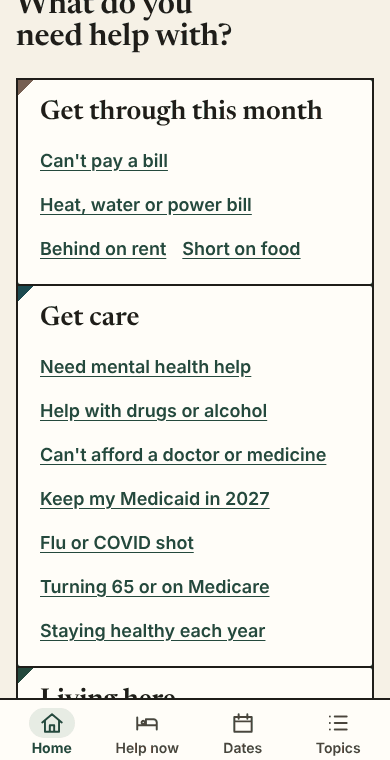
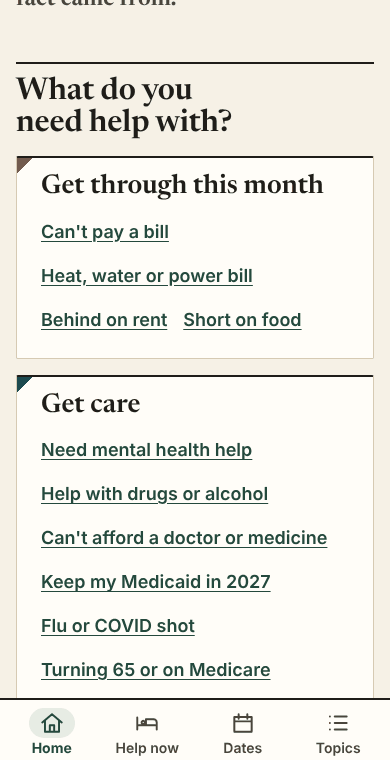
Press look: spacing pass on one 8-step scale (#396)
David picked Press and asked for spacing refinements. Every gap now uses one
scale (4 to 64px): room under the masthead, more space above titles than
below, doors as separate patches, a wider step column on phones with the
number on the title's first line, tighter link lists, calendar section gaps,
set-off source lines, a 43rem reading column, and page ends that clear the
preview and tab bars. Before and after shots in docs/design/looks/press-spacing/.

Claude-Session: https://claude.ai/code/session_01S2PP8p8arjqwsMjVu37HDo

diff --git a/site/public/looks/press.css b/site/public/looks/press.css
@@ -34,6 +34,13 @@ html[data-look="press"] {
   --ridge: var(--water);
   --serif: "Newsreader Press", Georgia, "Times New Roman", serif;
   --kicker: var(--display);
+  /* Spacing scale (#396 spacing pass). Every gap in this look uses one of these.
+     4, 8, 12, 16, 24, 32, 48, 64px. Same relationship, same gap:
+     --s2 inside a group (label to its links), --s3 heading to its text,
+     --s4 between items in a list of cards and between paragraphs,
+     --s5 between a block and the next block, --s7 before a new section. */
+  --s1: 0.25rem; --s2: 0.5rem; --s3: 0.75rem; --s4: 1rem;
+  --s5: 1.5rem; --s6: 2rem; --s7: 3rem; --s8: 4rem;
 }
 @media (prefers-color-scheme: dark) {
   html[data-look="press"] {
@@ -48,6 +55,22 @@ html[data-look="press"]:has(nav.main .tab[href$="/stay-tonight/"][aria-current])
   --serif: var(--display);
 }
 
+/* ---------- Page frame and flow ----------
+   Plain paragraphs and lists get one bottom margin. These sit in a layer so
+   any spacing a component sets on purpose still wins over them. */
+@layer press-flow {
+  html[data-look="press"] main :where(p, ul, ol, dl, blockquote) { margin-block: 0 var(--s4); }
+  html[data-look="press"] main :where(ul, ol) { padding-left: var(--s5); }
+}
+/* A steady gap under the masthead rule, and room at the end of every page. */
+html[data-look="press"] main#main { padding-top: var(--s6); padding-bottom: var(--s7); }
+html[data-look="press"] main#main > :not([hidden], script):first-child,
+html[data-look="press"] main#main > [hidden]:first-child + :not([hidden], script) { margin-top: 0; }
+/* Body lines of about 60 to 75 characters on wide screens. */
+html[data-look="press"] :is(main.wrap, footer.site .wrap) { max-width: 43rem; }
+/* The preview bar sits over the bottom of the screen; let the last lines clear it. */
+html[data-look="press"]:has(.look-bar) footer.site { padding-bottom: calc(var(--s8) + var(--s5)); }
+
 /* ---------- Type: two voices, five sizes ----------
    Serif (Newsreader 600): h1, h2, h3, lede, door names, big dates.
    Working voice (Atkinson 800): kickers, labels, the dateline.
@@ -59,14 +82,18 @@ html[data-look="press"] :is(h1, h2, h3) {
 }
 html[data-look="press"] h1 {
   font-size: clamp(2.1rem, 1.55rem + 2.4vw, 2.75rem); line-height: 1.08; letter-spacing: -0.015em;
-  margin: 0.35em 0 0.3em;
+  margin: var(--s6) 0 var(--s3);  /* more room above a title than between it and its lede */
 }
-html[data-look="press"] h1.front-h { font-size: clamp(2.3rem, 1.5rem + 3.4vw, 3rem); }
-html[data-look="press"] h2 { font-size: 1.75rem; line-height: 1.15; }
+html[data-look="press"] .crumbs + h1,
+html[data-look="press"] .crumbs ~ [hidden] + h1,
+html[data-look="press"] main#main > h1:first-child { margin-top: var(--s3); }
+html[data-look="press"] h1.front-h { font-size: clamp(2.3rem, 1.5rem + 3.4vw, 3rem); margin: var(--s7) 0 var(--s3); }
+html[data-look="press"] h2 { font-size: 1.75rem; line-height: 1.15; margin: var(--s7) 0 var(--s3); }
+html[data-look="press"] h3 { margin: var(--s5) 0 var(--s2); }
 html[data-look="press"] h3,
 html[data-look="press"] .card h3,
 html[data-look="press"] :is(.card.resource, .card.place) > h2 { font-size: 1.3rem; line-height: 1.22; }
-html[data-look="press"] .lede { font-size: 1.2rem; line-height: 1.5; color: var(--muted); }
+html[data-look="press"] .lede { font-size: 1.2rem; line-height: 1.5; color: var(--muted); margin: 0 0 var(--s5); }
 /* The front page lede is short, so it gets the serif voice too. */
 html[data-look="press"] .front-h + .lede {
   font-family: var(--serif); font-weight: 600; font-size: 1.3rem; line-height: 1.4; font-size-adjust: 0.47;
@@ -80,8 +107,12 @@ html[data-look="press"] :is(.eyebrow, .mp-when) {
 html[data-look="press"] main > h2,
 html[data-look="press"] main > section:not(.note, .card, .right-now, .add-cal, .cant-wait) > h2:first-child,
 html[data-look="press"] .doors > h2 {
-  border-top: 2px solid var(--fg); padding-top: 0.4em; margin-top: 1.6em;
+  border-top: 2px solid var(--fg); padding-top: var(--s3); margin-top: var(--s7);
 }
+/* Headings inside a box start at its top edge. */
+html[data-look="press"] :is(.card, .note, .add-cal, .right-now, .season, .mp-body, .fold-body) > :is(h2, h3):first-child,
+html[data-look="press"] :is(.card, .note, .add-cal) > .eyebrow:first-child + :is(h2, h3) { margin-top: 0; }
+html[data-look="press"] :is(.card, .note, .add-cal, .right-now, .mp-body, .fold-body) > :last-child { margin-bottom: 0; }
 
 /* ---------- Masthead ---------- */
 html[data-look="press"] header.site {
@@ -130,28 +161,41 @@ html[data-look="press"] :is(.card, .note, .add-cal, .right-now, .crisis-line, .s
 html[data-look="press"] .btn { border-radius: 3px; border-width: 2px; }
 
 /* ---------- Cards: paper slips with a quilt corner ---------- */
-html[data-look="press"] .card { position: relative; border: 1px solid var(--line); border-top: 2px solid var(--fg); }
+html[data-look="press"] .card {
+  position: relative; border: 1px solid var(--line); border-top: 2px solid var(--fg);
+  padding: var(--s4) var(--s4) var(--s5); margin: 0 0 var(--s4);
+}
+html[data-look="press"] :is(h2, h3, .lede, p) + .card { margin-top: var(--s4); }
+/* Source and checked lines: smaller than body, set off with a little room. */
+html[data-look="press"] :is(.card, .note, .mp-body, .fold-body, .right-now) .meta {
+  margin-top: var(--s4); font-size: 0.95rem; line-height: 1.5;
+}
+html[data-look="press"] .card .actions { margin: var(--s4) 0; }
 html[data-look="press"] .card::before {
   content: ""; position: absolute; top: 0; left: 0; width: 14px; height: 14px; pointer-events: none;
   background: linear-gradient(135deg, var(--quilt, var(--rust)) 50%, transparent 50%);
 }
 html[data-look="press"] .card.event { --quilt: var(--accent); }
 html[data-look="press"] .card:is(.place, .center, .group, .shop) { --quilt: var(--water); }
-html[data-look="press"] .card > :first-child { margin-top: 2px; }
+html[data-look="press"] .card > :first-child { margin-top: 0; }
 
 /* ---------- Home: Help now bar, plain and firm ---------- */
 html[data-look="press"] .right-now {
-  margin-top: 14px; background: var(--sand); border: 2px solid var(--fg); padding: 4px 14px 12px;
+  margin: 0; background: var(--sand); border: 2px solid var(--fg); padding: var(--s3) var(--s4) var(--s4);
 }
+html[data-look="press"] .right-now p { margin: var(--s2) 0; }
+html[data-look="press"] .right-now .crisis { margin-top: var(--s3); }
 html[data-look="press"] .right-now .rn-h { font-family: var(--display); }
 
 /* ---------- Home: the doors as a pieced grid ---------- */
-html[data-look="press"] .door-list {
-  gap: 2px; background: var(--fg); border: 2px solid var(--fg); margin-top: 14px;
-}
+/* Each door is its own patch with a real gap, like blocks laid out before they are sewn. */
+html[data-look="press"] .door-list { gap: var(--s4); margin: var(--s4) 0 0; }
 html[data-look="press"] .door {
-  position: relative; border: 0; border-radius: 0; background: var(--card); padding: 8px 16px 12px 22px;
+  position: relative; border: 1px solid var(--line); border-top: 2px solid var(--fg); border-radius: 0;
+  background: var(--card); padding: var(--s3) var(--s4) var(--s4) var(--s5);
 }
+html[data-look="press"] .door-name { min-height: 0; padding-block: var(--s1) var(--s2); }
+html[data-look="press"] .doors > h2 { margin-bottom: 0; }
 html[data-look="press"] .door::before {
   content: ""; position: absolute; top: 0; left: 0; width: 16px; height: 16px;
   background: linear-gradient(135deg, var(--quilt, var(--rust)) 50%, transparent 50%);
@@ -164,13 +208,14 @@ html[data-look="press"] .door-name {
   font-size-adjust: 0.47;
 }
 html[data-look="press"] .door-name .icon { display: none; } /* no icons in tinted circles */
-html[data-look="press"] .door-ex { gap: 0 16px; }
+html[data-look="press"] .door-ex { gap: 0 var(--s4); }
 
 /* Sentence entry lines: "I can't pay a bill", "Just moved here?" read as lines on a page. */
-html[data-look="press"] .sit-links { list-style: none; padding: 0; gap: 0; border-top: 2px solid var(--fg); }
+html[data-look="press"] .sit-links { list-style: none; padding: 0; gap: 0; margin: 0 0 var(--s5); border-top: 2px solid var(--fg); }
+html[data-look="press"] .sit-links > li { margin: 0; }
 html[data-look="press"] .sit-links > li { border-bottom: 1px solid var(--line); }
 html[data-look="press"] .sit-links > li > a {
-  display: flex; align-items: center; gap: 12px; min-height: 52px; padding-block: 8px;
+  display: flex; align-items: center; gap: var(--s3); min-height: 52px; padding-block: var(--s2);
   font-size: 1.2rem; font-weight: 600; text-decoration: none; color: var(--fg);
 }
 html[data-look="press"] .sit-links > li > a::before { /* a Flying Geese unit: one triangle pointing on */
@@ -179,9 +224,13 @@ html[data-look="press"] .sit-links > li > a::before { /* a Flying Geese unit: on
 }
 html[data-look="press"] .sit-links > li > a:hover { text-decoration: underline; color: var(--accent); }
 
-html[data-look="press"] .home-band ul { gap: 0 24px; }
+html[data-look="press"] .home-band.home-band.home-band { margin: var(--s7) 0 0; }
+html[data-look="press"] .home-band.home-band.home-band ul { gap: 0 var(--s5); padding: 0; }
+html[data-look="press"] .home-band.home-band.home-band li { margin: 0; }
 html[data-look="press"] .home-band li { border-top: 1px solid var(--fg); }
-html[data-look="press"] .home-band.home-band.home-band li a { border: 0; border-radius: 0; background: none; padding: 10px 0 12px; }
+html[data-look="press"] .home-band.home-band.home-band li a { border: 0; border-radius: 0; background: none; padding: var(--s3) 0 var(--s4); }
+html[data-look="press"] .home-band.home-band.home-band strong { margin-bottom: var(--s1); }
+html[data-look="press"] .home-band-more.home-band-more { margin-top: var(--s2); gap: 0 var(--s5); }
 html[data-look="press"] .home-band strong {
   font-family: var(--serif); font-weight: 600; font-size: 1.3rem; line-height: 1.22; font-size-adjust: 0.47;
 }
@@ -189,13 +238,25 @@ html[data-look="press"] .home-band strong {
 /* Search box: a ruled field, not a pill. */
 html[data-look="press"] .search label { font-family: var(--serif); font-weight: 600; font-size: 1.3rem; }
 html[data-look="press"] .search input { border-width: 2px; }
+html[data-look="press"] .search { margin: var(--s7) 0 0; gap: var(--s2); }
 
 /* ---------- Notes and season cards: flat sandstone ink ---------- */
 html[data-look="press"] :is(.note, .add-cal) {
-  background: var(--sand); border-left: 0; border-top: 2px solid var(--fg); padding: 12px 16px;
+  background: var(--sand); border-left: 0; border-top: 2px solid var(--fg); padding: var(--s4); margin: var(--s5) 0;
 }
-html[data-look="press"] .card.season { background: var(--sand); border-left: 1px solid var(--line); }
-html[data-look="press"] .crisis-line { border-radius: 0; }
+html[data-look="press"] .card.season { background: var(--sand); border-left: 1px solid var(--line); margin: var(--s5) 0 0; }
+html[data-look="press"] .card.season + .card.season { margin-top: var(--s4); }
+html[data-look="press"] .card.season .eyebrow { margin: 0 0 var(--s1); }
+html[data-look="press"] .crisis-line { border-radius: 0; margin: 0 0 var(--s4); padding: var(--s2) var(--s3); }
+/* Paragraph-like lists of links (Thrift shops "Looking for something?"): normal
+   line height and a clear gap between items, instead of very tall lines.
+   Inline links in text are exempt from the 24px target size rule (WCAG 2.5.8). */
+html[data-look="press"] .filters.filters.filters { padding-left: var(--s5); margin: var(--s3) 0 var(--s5); }
+html[data-look="press"] .filters.filters.filters li { line-height: 1.6; margin: 0 0 var(--s3); }
+/* Door page "Can't wait" box and the On this page list. */
+html[data-look="press"] .cant-wait { margin: var(--s5) 0; }
+html[data-look="press"] .on-page { margin: var(--s5) 0; }
+html[data-look="press"] .on-page p { margin: 0; }
 
 /* The checked date (span.checked, #1395) reads like a printer's imprint: text ink, bold. */
 html[data-look="press"] .meta .checked { color: var(--fg); font-weight: 700; font-variant-numeric: lining-nums; }
@@ -209,13 +270,20 @@ html[data-look="press"] .date-chip > span:first-child {
 html[data-look="press"] .date-chip .rel {
   font-family: var(--kicker); font-weight: 800; font-size: 0.875rem; letter-spacing: 0.06em; text-transform: uppercase;
 }
-html[data-look="press"] .week.week.week ul { list-style: none; padding: 0; margin: 8px 0; }
-html[data-look="press"] .week.week.week li { border-bottom: 1px solid var(--line); padding: 6px 0; }
-html[data-look="press"] .week.week.week li > a { display: grid; grid-template-columns: 6.6rem minmax(0, 1fr); gap: 0 12px; }
+html[data-look="press"] .date-chip { margin: 0 0 var(--s2); gap: var(--s1) var(--s3); }
+html[data-look="press"] .week.week.week ul { list-style: none; padding: 0; margin: var(--s3) 0 0; }
+html[data-look="press"] .week.week.week li { border-top: 0; border-bottom: 1px solid var(--line); padding: var(--s2) 0; margin: 0; }
+html[data-look="press"] .week.week.week li:last-child { border-bottom: 1px solid var(--line); }
+html[data-look="press"] .week.week.week li > a { display: grid; grid-template-columns: 6.6rem minmax(0, 1fr); gap: 0 var(--s3); padding: 0; }
+html[data-look="press"] .week.week.week > .meta { margin: var(--s4) 0 0; }
+html[data-look="press"] .week.week.week > .meta a { display: inline-block; padding-block: var(--s1); }
+html[data-look="press"] .cal-jump.cal-jump.cal-jump { margin: var(--s7) 0 var(--s5); }
+html[data-look="press"] .cal-jump.cal-jump.cal-jump ul { padding-left: var(--s5); margin: 0; }
+html[data-look="press"] .cal-jump.cal-jump.cal-jump li { margin: 0; padding-block: var(--s1); }
 html[data-look="press"] .week.week.week .day {
   font-family: var(--serif); font-weight: 600; color: var(--accent); margin: 0; font-variant-numeric: lining-nums tabular-nums;
 }
-html[data-look="press"] .week.week.week .rel { display: block; padding-left: calc(6.6rem + 12px); font-size: 0.95rem; color: var(--muted); }
+html[data-look="press"] .week.week.week .rel { display: block; padding-left: calc(6.6rem + var(--s3)); font-size: 0.95rem; color: var(--muted); }
 @media (max-width: 22rem) {
   html[data-look="press"] .week.week.week li > a { grid-template-columns: minmax(0, 1fr); }
   html[data-look="press"] .week.week.week .rel { padding-left: 0; }
@@ -224,27 +292,30 @@ html[data-look="press"] .week.week.week .rel { display: block; padding-left: cal
 /* ---------- Trailhead: lock steps ----------
    The rail drops one notch to the right at every step, like the pools behind
    the locks and dams on the Mon. Step numbers are square gates on the rail. */
-html[data-look="press"] .route { border-left: 0; margin-left: 0; padding-left: 48px; gap: 14px; }
-html[data-look="press"] .milepost { --x: 10px; }
-html[data-look="press"] .milepost:nth-child(2) { --x: 16px; }
-html[data-look="press"] .milepost:nth-child(3) { --x: 22px; }
-html[data-look="press"] .milepost:nth-child(4) { --x: 28px; }
-html[data-look="press"] .milepost:nth-child(n+5) { --x: 34px; }
+/* Gutter 42px: the rail column. --x moves the rail one rail-width right per step. */
+html[data-look="press"] .route { --gut: 42px; border-left: 0; margin: var(--s5) 0; padding-left: var(--gut); gap: var(--s3); }
+html[data-look="press"] .milepost { --x: 0px; margin: 0; }
+html[data-look="press"] .milepost:nth-child(2) { --x: 3px; }
+html[data-look="press"] .milepost:nth-child(3) { --x: 6px; }
+html[data-look="press"] .milepost:nth-child(4) { --x: 9px; }
+html[data-look="press"] .milepost:nth-child(n+5) { --x: 12px; }
 html[data-look="press"] .milepost::before {
-  content: ""; position: absolute; left: calc(var(--x) - 48px); top: 20px; bottom: -34px; width: 6px;
+  content: ""; position: absolute; left: calc(var(--x) + 13px - var(--gut)); top: 24px; bottom: calc(-1 * var(--s3) - 24px); width: 3px;
   border-left: 3px solid var(--water); border-bottom: 3px solid var(--water);
 }
 html[data-look="press"] .milepost:nth-child(n+5)::before { width: 0; } /* after step 5 the rail runs straight */
 html[data-look="press"] .milepost:last-child::before { bottom: auto; height: 12px; border-bottom: 0; }
 html[data-look="press"] .mp-num {
-  left: calc(var(--x) - 48px - 14px); top: 12px; width: 30px; height: 30px; border-radius: 2px;
+  left: calc(var(--x) - var(--gut) - 1px); top: 14px; width: 28px; height: 28px; /* centered on the first line of the title */ border-radius: 2px;
   background: var(--water); color: var(--card); border: 3px solid var(--bg);
   font-family: var(--serif); font-weight: 600; font-size: 1.05rem; font-variant-numeric: lining-nums;
 }
 html[data-look="press"] .milepost summary h2 { color: var(--fg); }
 html[data-look="press"] .milepost details { border-top: 2px solid var(--fg); }
 html[data-look="press"] .milepost details[open] { background: var(--card); }
-html[data-look="press"] .mp-body { border-top-color: var(--line); }
+html[data-look="press"] .mp-body { border-top-color: var(--line); padding: 0 var(--s3) var(--s4); }
+html[data-look="press"] .mp-body > :first-child { margin-top: var(--s3); }
+html[data-look="press"] .milepost summary { padding: var(--s2) 40px var(--s2) var(--s3); }
 
 /* Door page step lists: square markers on the water rail. */
 html[data-look="press"] .steps { border-left-color: var(--water); }
@@ -252,7 +323,7 @@ html[data-look="press"] .step::before { border-radius: 0; background: var(--wate
 
 /* ---------- Not found: a Log Cabin block, the plainest empty state ---------- */
 html[data-look="press"]:has(meta[name="robots"][content^="noindex"]) main:has(> section.note #help-now-h) > h1::before {
-  content: ""; display: block; width: 56px; height: 56px; margin: 0 0 18px;
+  content: ""; display: block; width: 56px; height: 56px; margin: 0 0 var(--s4);
   background: var(--rust);
   -webkit-mask: url("press/log-cabin.svg") center / contain no-repeat; mask: url("press/log-cabin.svg") center / contain no-repeat;
 }
@@ -260,7 +331,7 @@ html[data-look="press"]:has(meta[name="robots"][content^="noindex"]) main:has(> 
 /* ---------- Footer: the same thick and thin rule closes the page ---------- */
 html[data-look="press"] footer.site {
   border-top: 3px solid var(--fg); box-shadow: inset 0 3px 0 var(--bg), inset 0 4px 0 var(--fg);
-  padding-top: 24px;
+  padding-top: var(--s5); margin-top: var(--s4);
 }
 
 /* ---------- Focus: a firm hemlock outline on every focusable thing ---------- */

diff --git a/docs/design/looks/press.md b/docs/design/looks/press.md
@@ -21,10 +21,10 @@ It merges three phase 1 directions: "Broadsheet" ([generic tells](../research/20
 1. **A serif second voice.** Newsreader (a newspaper face) for h1, h2, h3, card titles, door names, the home page lede and big dates. Atkinson Hyperlegible Next stays the working voice for kickers, labels and the dateline. Body stays on the system font.
 2. **A masthead.** The dateline becomes a folio line in small capitals. The header closes with a thick and thin rule, the old newspaper rule, and the footer opens with the same rule. On wide screens the name is centered between rules, and the menu is a section index of plain words split by thin rules.
 3. **Rules instead of soft boxes.** One radius (2px, 3px for buttons). Section heads get a 2px rule above, like a column head. Cards are paper slips with a 2px top rule.
-4. **Quilt geometry as a grid.** On the home page the five doors are pieced together like quilt blocks: square patches joined by 2px seams, no icons in tinted circles.
+4. **Quilt geometry as a grid.** On the home page the five doors are laid out like quilt blocks before they are sewn: square patches with a 2px top rule and an even 16px gap, no icons in tinted circles.
 5. **Quilt corners.** Every card and door has one half-square triangle in its top left corner, 14 to 16px, in one of three inks: rust for resources, hemlock for dates, Cheat water for places and groups. Pure CSS, no image. Never called a barn quilt.
 6. **Sentence entry lines.** On door pages, "I can't pay a heat, water or power bill" and the other choices read as ruled lines with a Flying Geese triangle pointing on. On the home page, "Just moved here?" and the other questions are set in the serif.
-7. **Lock steps.** On Trailhead routes the rail drops one notch to the right at each step, like the pools behind the locks and dams on the Mon. Step numbers are square gates on the rail. After step 5 the rail runs straight, so long routes never crowd the text.
+7. **Lock steps.** On Trailhead routes the rail drops one rail-width to the right at each step, like the pools behind the locks and dams on the Mon. Step numbers are square gates on the rail, level with the first line of each step's title. After step 5 the rail runs straight, so long routes never crowd the text.
 8. **Dates as a printed listing.** Big serif dates with even (tabular) figures, "today" and "tomorrow" as small capitals, and the calendar's "This week" as a date column beside each title.
 9. **The checked date as an imprint.** "Checked November 1, 2026" (the `span.checked` hook from #1395) is set bold in the text ink, so our hand-checking stands out from the grey source line.
 10. **A Log Cabin block for "nothing here."** The site has no empty state component, so the block sits above the title of the 404 page, 56px, in rust. It is our own drawing on a plain grid (`press/log-cabin.svg`, 0.7 KB), used as a mask so it follows light and dark.
@@ -70,7 +70,7 @@ No gold or yellow. Sandstone is a pale tan used only as a surface.
 | Kickers, dateline, "today" | Atkinson Hyperlegible Next 800, small capitals | 14px |
 | Meta, sources | system | 15.2px |
 
-**Weight added:** Newsreader, one static cut (weight 600, optical size 48, Latin subset with kerning and figure features), **14.3 KB** woff2. The stylesheet is 14.6 KB raw, about **4.3 KB** gzipped. The Log Cabin block is 0.7 KB and loads on the 404 only. Total first visit on an everyday page: about 19 KB.
+**Weight added:** Newsreader, one static cut (weight 600, optical size 48, Latin subset with kerning and figure features), **14.3 KB** woff2. The stylesheet is 20.6 KB raw, about **5.7 KB** gzipped. The Log Cabin block is 0.7 KB and loads on the 404 only. Total first visit on an everyday page: about 20 KB.
 
 **Kept off crisis and Help now pages.** On any page with the crisis strip (Where to stay tonight, Tonight, Mental health, Drugs and alcohol, Protective orders, Leaving an unsafe home) or with the Help now tab current, headings stay in Atkinson and the serif is never downloaded (checked by watching network requests). Colors and corners still change there; the crisis strip, Quick exit and tab bar keep their layout.
 
@@ -90,12 +90,50 @@ License: SIL Open Font License 1.1, copy at `site/public/looks/press/OFL.txt`. S
 
 ## Known issues
 
-- The h1 sits close under the home page Help now bar on wide screens; it could use a little more room.
 - Some component styles needed a doubled class to win (`.home-band`, `.week`), because Astro scopes them with extra attributes. If this look ships, the rules belong in the components instead.
 - The 404 is found by its structure (a noindex page whose main ends in the "Need help now?" note). A neutral `data-empty` hook would be sturdier.
 - At 320px and 200% text the masthead dateline in capitals takes four lines. Nothing overflows, but it is tall.
 - Dates on event cards wrap when a range is long ("Thu, Oct 1 to Thu, Dec 31"). They wrap cleanly but are big.
 - Windows High Contrast drops the quilt corners and the masthead's thin rule on purpose.
+
+## Spacing pass (November 2, 2026)
+
+David picked Press and asked for spacing refinements. Every gap in the look now comes from one scale, set as custom properties under `html[data-look="press"]`:
+
+| Token | `--s1` | `--s2` | `--s3` | `--s4` | `--s5` | `--s6` | `--s7` | `--s8` |
+|---|---|---|---|---|---|---|---|---|
+| Size | 4px | 8px | 12px | 16px | 24px | 32px | 48px | 64px |
+
+The same relationship always gets the same gap: `--s2` inside a group, `--s3` from a heading to its text, `--s4` between paragraphs and between cards in a list, `--s5` from one block to the next, `--s7` before a new section. There is always more room above a heading than below it.
+
+What changed:
+
+1. **Room under the masthead.** The built pages had no top padding on `main`, so the first block (the Help now box, the danger note, the breadcrumb) touched the header rule. `main` now has a 32px top gap and a 48px bottom gap on every page.
+2. **Doors stand apart.** The doors had shared 2px seams, which read as doubled borders on a phone. Each door is now its own patch with a 16px gap, the same 2px top rule as a card, and a hairline on the other sides.
+3. **Titles breathe.** h1 has 32px above it (48px on the home page) and 12px below it before the lede; after a breadcrumb it has 12px. Section heads have 48px above their rule and 12px below.
+4. **Wider steps on phones.** The route rail column went from 48px to 42px, and step padding from 14px to 12px, so the step text column is about 22px wider at 390px. The step number now lines up with the first line of the step title. The cost: the lock-step drop is 3px per step instead of 6px, so it is quieter.
+5. **Link lists read as lists.** "Looking for something?" on Thrift and resale shops had a line height of 1.9. It is now 1.6, with 12px between items. These are inline links, which WCAG 2.5.8 exempts from the 24px target size.
+6. **Calendar.** The "All dates" line has 16px above it, the week jump list has a 48px section gap above it, and every bulleted list in the look uses the same 24px indent.
+7. **Source lines.** "Source ... Checked ..." in cards, notes and steps has 16px above it, a 1.5 line height, and stays at 15.2px (the site keeps sources at 15px or more, #50), so it sits clearly below the 18px body text.
+8. **Page ends.** When the preview bar shows, the footer adds room so its last line clears both the preview bar and the tab bar (about 57px to spare at 390px).
+9. **Line length.** The reading column is 43rem on wide screens, so body lines run about 62 to 76 characters. The desktop menu now fits on one row.
+
+Plain paragraph and list margins sit in a CSS layer (`@layer press-flow`), so any spacing a component sets on purpose still wins.
+
+Before and after at 390px:
+
+| | Before | After |
+|---|---|---|
+| Home, top | ![Home top before](press-spacing/home-top-before.png) | ![Home top after](press-spacing/home-top-after.png) |
+| Home, doors | ![Doors before](press-spacing/home-doors-before.png) | ![Doors after](press-spacing/home-doors-after.png) |
+| Get through this month | ![Money top before](press-spacing/money-top-before.png) | ![Money top after](press-spacing/money-top-after.png) |
+| Start a business steps | ![Route before](press-spacing/route-before.png) | ![Route after](press-spacing/route-after.png) |
+| Thrift shops link lists | ![Thrift before](press-spacing/thrift-links-before.png) | ![Thrift after](press-spacing/thrift-links-after.png) |
+| Calendar, end of this week | ![Calendar before](press-spacing/calendar-week-before.png) | ![Calendar after](press-spacing/calendar-week-after.png) |
+
+The tab bar and preview bar are hidden in these shots so the page shows.
+
+Checked after the pass: no overflow at 320px with 200% text on ten pages (home, `/money/`, `/stay-tonight/`, `/legal-help/`, `/calendar/`, `/start-a-business/`, 404, `/utility-bills/`, `/care/`, `/thrift-shops/`). axe (A, AA and AAA rules) found no violations on seven pages at 390px and 1280px, light and dark.
 
 ## How it was checked
 
